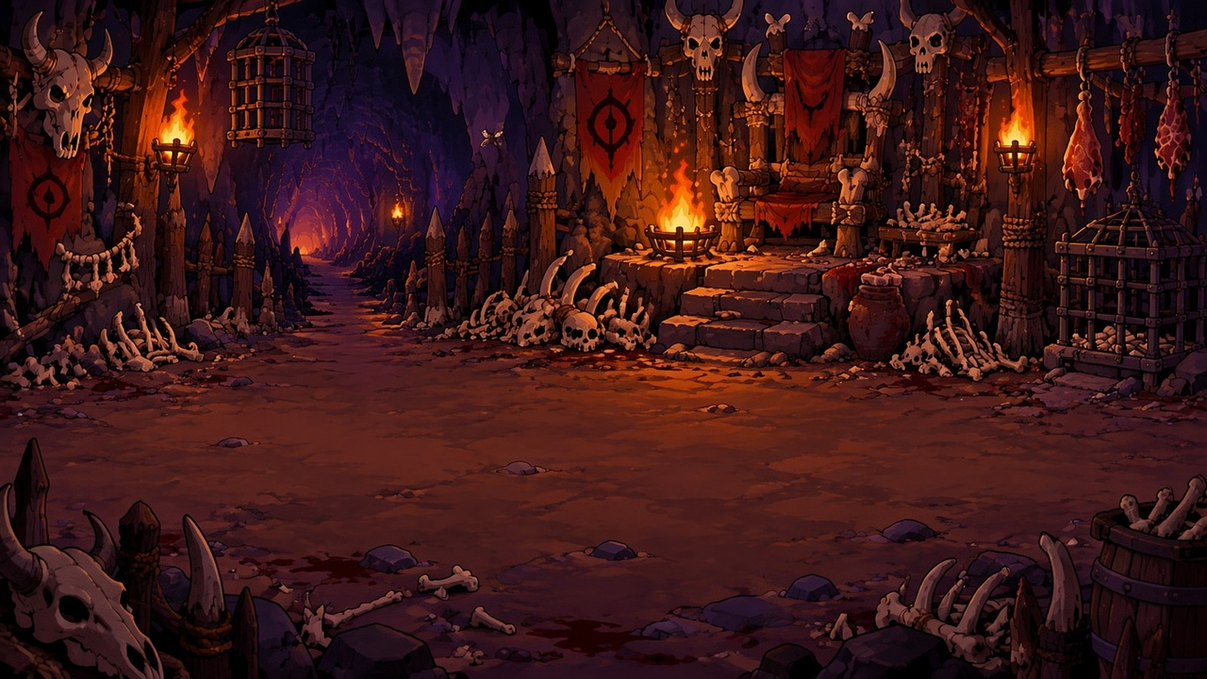
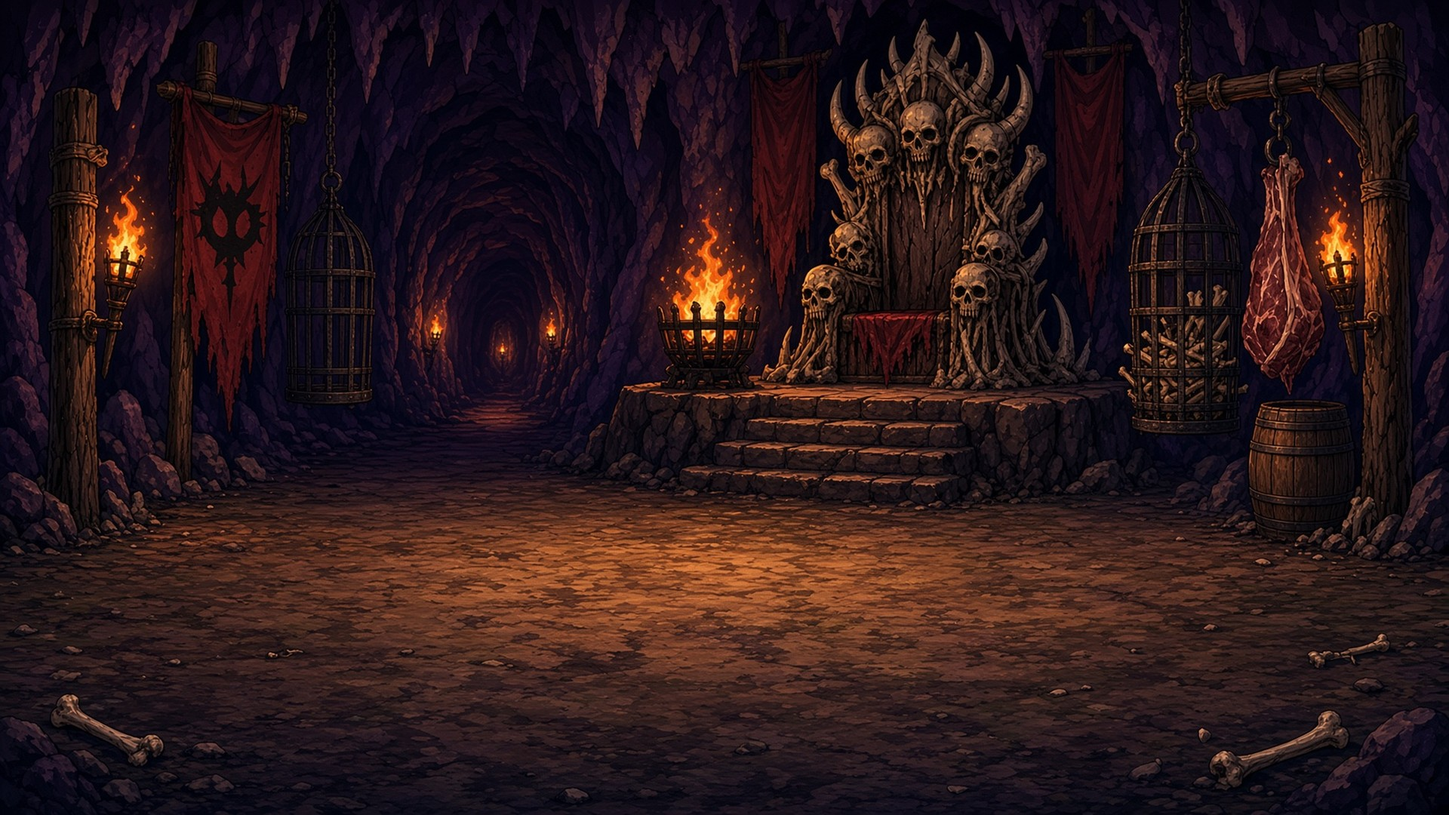
новые логова боссов с живыми эффектами; жуткий лес; фонари у доски; птицы за домами; пёсик/котик поверх героев
Claude-Session: https://claude.ai/code/session_016vnxAXxP6rRycVd2Q33YK3

diff --git a/live6.js b/live6.js
@@ -19,23 +19,48 @@
       flagAtlas: 'town_flags.png', flags: [[74, 121, 168, 424, 0, 0, 424], [536, 128, 152, 417, 168, 0, 424]],
       fire: [1596, 600], fireR: 0.45,
       dog: { img: 'town_dog.png', x: 1330, y: 800, w: 105, px: 0.758, py: 0.849 }, // пёсик: тело + хвост (хвост вращается вокруг px,py)
-      windows: [[864, 493, 60], [1254, 493, 60], [790, 304, 30], [769, 431, 20], [1993, 264, 30], [2343, 186, 40], [1993, 417, 20], [2343, 214, 40]],
+      lanterns: [[870, 497, 26], [1255, 497, 26]], // v8.7: фонари у доски заданий
+      windows: [[790, 304, 30], [769, 431, 20], [1993, 264, 30], [2343, 186, 40], [1993, 417, 20], [2343, 214, 40]],
       birds: true
     },
     forest: {
       sky: 'forest_sky.png', stars: [[684,70,1.16,4.4,1.77],[596,26,0.97,4.56,1.27],[575,43,1.07,1.25,2.02],[552,71,0.98,5.35,1.79],[552,41,1.07,1.93,1.06],[594,21,0.98,5.5,0.65],[602,78,0.51,5.02,1.06],[568,17,1.17,4.69,1.07],[561,76,1.12,3.11,0.76],[615,8,1.01,4.53,0.77],[683,10,1.05,0.05,2.13],[645,77,1.11,4.01,1.69],[650,56,0.67,3.79,1.39],[710,51,0.8,0.49,1.08],[665,11,0.62,3.42,0.9],[662,65,0.85,2.91,0.61],[552,25,0.72,2.42,0.89],[558,36,0.6,2.84,1.69],[677,18,1.02,2.18,1.56],[705,3,0.9,3.38,2.12],[726,33,1.12,4.82,2.15],[693,36,1.0,2.07,1.23],[637,13,0.64,0.09,1.34],[635,37,0.66,1.12,1.62],[556,47,1.16,2.19,1.5],[566,58,0.7,2.74,2.17],[660,54,0.85,1.94,0.73],[598,1,0.86,3.72,0.61],[630,18,1.1,2.64,0.89],[624,60,0.7,4.58,1.89],[643,87,0.85,5.41,0.69],[690,9,1.06,1.02,2.12],[542,71,0.62,0.04,2.0],[663,22,0.61,6.16,1.71],[652,42,0.83,5.54,1.12],[580,12,1.17,1.61,1.87],[625,52,0.66,1.85,1.2],[588,1,0.84,1.83,0.69],[551,59,0.67,4.37,1.01],[680,17,0.65,5.07,0.98]],
-      windows: [[2236, 404, 70]],
+      lanterns: [[2236, 404, 28]],
+      eyes: { c: '255,40,20', core: '200,160', gap: [3, 7], at: [[96, 528, .9], [896, 512, .8], [1616, 548, .8], [2448, 560, .9], [60, 1110, 1.1], [2496, 1130, 1.1], [700, 590, .7]] }, // v8.7: жуткий лес — красные глаза в кустах
+      mist: [560, 700, '150,140,190', 0.10],
       flies: [[20, 1100, 600, 1420], [1950, 1100, 2540, 1420], [300, 650, 900, 760]], leaves: 3, birds: true
     },
     garden: {
       sky: 'garden_sky.png', stars: [[381,12,0.81,0.89,1.46],[121,4,0.63,1.52,0.65],[520,40,1.03,3.22,0.65],[221,51,0.58,1.83,0.71],[429,6,0.83,6.16,1.24],[552,43,0.56,2.09,2.14],[241,17,0.67,0.63,0.7],[268,53,0.95,0.73,1.27],[435,0,0.69,6.1,1.89],[622,2,0.65,2.48,1.97],[528,1,1.04,2.07,1.07],[150,9,0.56,3.66,0.99],[315,39,1.14,5.14,1.0],[212,13,0.53,6.05,0.98],[140,16,0.66,3.51,1.96],[573,27,1.14,1.28,0.63],[123,5,0.62,2.32,1.52],[269,11,0.75,5.6,2.17],[279,9,0.55,3.43,1.78],[164,11,0.95,6.24,2.01],[616,18,0.97,1.27,0.87],[494,41,0.78,1.57,1.61],[410,27,0.77,3.66,1.11],[278,17,0.85,5.26,1.96],[346,14,0.82,1.73,0.94],[278,51,0.82,0.16,1.93],[236,57,0.58,3.36,1.62],[405,25,1.08,1.61,1.74],[458,11,0.79,5.61,1.22],[252,27,0.67,2.45,0.74],[341,8,1.15,2.88,2.07],[532,16,0.99,6.14,0.66],[318,29,0.51,1.78,1.76],[279,29,1.14,3.94,1.16],[398,27,1.04,1.22,0.75],[490,16,1.01,1.63,0.76],[258,25,0.78,4.3,0.63],[217,3,0.53,3.46,1.42],[300,24,0.63,1.28,1.94],[126,17,1.17,2.9,1.82],[338,12,0.86,0.1,2.03],[528,35,1.14,4.68,1.84],[378,9,1.06,1.89,0.76],[485,32,0.81,3.17,1.82],[201,33,0.68,5.69,1.48],[606,3,0.51,1.54,0.67],[499,5,0.87,5.89,1.76],[235,6,0.94,2.86,0.93],[254,46,0.81,4.19,1.33],[280,37,1.01,1.5,0.78],[490,24,1.17,3.15,1.64],[124,1,0.69,2.67,1.6],[209,28,0.88,0.46,0.74],[245,57,1.07,3.92,1.83],[528,49,1.07,2.32,1.65],[292,28,0.75,4.56,1.19],[240,41,1.0,3.58,2.07],[173,3,0.94,0.9,1.79],[225,53,1.15,5.75,0.99],[343,41,0.64,2.67,1.07]],
       fire: [2029, 1193], steam: [2029, 1007], fireR: 0.6,
-      windows: [[1826, 139, 60], [2400, 307, 60]],
+      lanterns: [[1826, 139, 24]], windows: [[2400, 307, 60]],
       flies: [[20, 1150, 500, 1420], [2100, 1150, 2540, 1420]], leaves: true, birds: true,
       cat: { img: 'garden_cat.png', x: 1110, y: 282, w: 85 } // спящий котик на заборе
     },
+    // v8.7: логова боссов — без неба; свои живые эффекты
+    boss: {
+      fires: [[220, 440, 0.9], [2360, 462, 0.9], [1253, 528, 1.3]],
+      lanterns: [[773, 578, 14, '255,150,60'], [885, 613, 10, '255,150,60'], [971, 586, 13, '255,150,60']],
+      eyes: { c: '255,40,20', core: '200,140', gap: [4, 9], at: [[860, 660, .8], [700, 600, .7], [1040, 640, .7]] },
+      motes: { r: [0, 300, 2560, 900], c: '255,150,70', n: 26, up: 22 },
+      mist: [760, 900, '90,40,60', 0.12]
+    },
+    boss_queen: {
+      glows: [[213, 432, 150, '190,80,255', 1.3, .14, .16], [400, 456, 140, '190,80,255', 1.1, .14, .16], [1408, 576, 110, '190,80,255', 1.6, .12, .14], [1824, 616, 120, '190,80,255', 1.4, .12, .14], [2256, 480, 150, '190,80,255', 1.2, .14, .16], [1672, 540, 260, '200,90,255', 0.7, .14, .14], [1040, 432, 240, '170,90,255', 0.5, .10, .10]],
+      lanterns: [[531, 310, 22, '220,140,255'], [2109, 310, 22, '220,140,255']],
+      drips: [[184, 672, 150, '200,110,255'], [392, 616, 150, '200,110,255'], [616, 704, 60, '200,110,255'], [2040, 640, 130, '200,110,255'], [2328, 720, 150, '200,110,255']],
+      motes: { r: [0, 200, 2560, 1300], c: '210,130,255', n: 30, up: 12 },
+      mist: [800, 1000, '120,60,170', 0.10]
+    },
+    boss_treant: {
+      rays: [[1240, -20, 160, 820, 0.12, '255,240,170'], [1360, -20, 120, 760, 0.05, '255,240,170'], [1120, -20, 110, 700, 0.2, '255,240,170']],
+      glows: [[1280, 600, 170, '170,255,150', 0.6, .10, .10]],
+      flies: [[300, 350, 2300, 900], [200, 900, 800, 1300], [1800, 900, 2400, 1300]], leaves: 2, leafC: ['#7a9a2e', '#5d7d22', '#a0a838'],
+      eyes: { c: '230,255,90', core: '255,160', gap: [5, 10], at: [[896, 640, .7], [1696, 672, .7], [1280, 610, .6], [520, 700, .7]] },
+      mist: [720, 860, '170,210,170', 0.10]
+    },
   };
-  const ALL = ['dog', 'cat', 'clouds', 'stars', 'shoot', 'daynight', 'fire', 'sparks', 'steam', 'windows', 'flags', 'ffly', 'leaves', 'birds'];
+  const ALL = ['eyes', 'dog', 'cat', 'clouds', 'stars', 'shoot', 'daynight', 'fire', 'sparks', 'steam', 'windows', 'flags', 'ffly', 'leaves', 'birds'];
   const rnd = (a, b) => a + Math.random() * (b - a);
   const mk = (w, h) => { const c = document.createElement('canvas'); c.width = w; c.height = h; return c; };
   let T = 0;
@@ -64,6 +89,9 @@
     let s = st[loc]; if (s) return s;
     s = st[loc] = { ready: false, clouds: [], sprites: [], stars: [], sparks: [], steam: [], flies: [], leaves: [], birds: [], shoot: null, nextShoot: 4, nextBirds: 8 };
     const sw = W, sh = SKY_H;
+    s.eyes = []; s.nextEyes = rnd(2, 5); s.drops = []; s.motes = []; s.mist = [];
+    if (L.mist) for (let i = 0; i < 7; i++) s.mist.push({ x: rnd(-400, W), y: rnd(L.mist[0], L.mist[1]), r: rnd(260, 480), v: rnd(10, 26) * (Math.random() < .5 ? 1 : -1), a: rnd(.5, 1) });
+    if (!L.sky) { s.ready = true; } else {
     s.sky = mk(sw, sh); s.mask = mk(sw, sh);
     const im = new Image();
     im.onerror = () => console.warn('live6: нет маски неба', base + L.sky);
@@ -72,7 +100,7 @@
       s.stars = (L.stars || []).map(([x, y, r, p, f]) => ({ x: x * 2, y: y * 2, r: r * 1.6, p, f }));
       s.ready = true;
     };
-    im.src = base + L.sky + '?v=2';
+    im.src = base + L.sky + '?v=2'; }
     if (L.dog) { const d = new Image(); d.onload = () => { s.dog = d; }; d.src = base + L.dog.img + '?v=1'; s.dogHappy = 0; s.dogBark = rnd(6, 14); s.dogSay = 0; }
     if (L.cat) { const c = new Image(); c.onload = () => { s.cat = c; }; c.src = base + L.cat.img + '?v=1'; }
     if (L.flagAtlas) { const a = new Image(); a.onload = () => { s.atlas = a; }; a.src = base + L.flagAtlas + '?v=1'; }
@@ -82,7 +110,7 @@
     return s;
   }
 
-  function skyLayer(s, dt, nk) {
+  function skyLayer(s, dt, nk, L) {
     const g = s.sky.getContext('2d'), sw = s.sky.width, sh = s.sky.height;
     g.clearRect(0, 0, sw, sh);
     if (on('daynight')) { g.fillStyle = `rgba(18,10,40,${0.45 * nk})`; g.fillRect(0, 0, sw, sh); }
@@ -92,6 +120,8 @@
       const o = s.shoot; if (o) { o.t += dt; o.x += o.vx * dt; o.y += o.vy * dt; const a = Math.max(0, 1 - o.t / 0.9), gr = g.createLinearGradient(o.x, o.y, o.x - o.vx * .12, o.y - o.vy * .12); gr.addColorStop(0, `rgba(255,250,230,${a})`); gr.addColorStop(1, 'rgba(255,250,230,0)'); g.strokeStyle = gr; g.lineWidth = 2.5; g.beginPath(); g.moveTo(o.x, o.y); g.lineTo(o.x - o.vx * .12, o.y - o.vy * .12); g.stroke(); if (o.t > .9) s.shoot = null; }
     }
     if (on('clouds')) { s.clouds.forEach(c => { c.x += c.v * dt; if (c.x > sw + 10) { c.x = -c.s.width - rnd(0, 400); c.y = rnd(20, 260); c.v = rnd(6, 14); c.s = s.sprites[Math.floor(Math.random() * s.sprites.length)]; } g.globalAlpha = c.a * (1 - 0.25 * nk); g.drawImage(c.s, Math.round(c.x), Math.round(c.y)); }); g.globalAlpha = 1; }
+    if (L.birds && on('birds')) { s.nextBirds -= dt; if (s.nextBirds <= 0 && !s.birds.length) { const n = 3 + Math.floor(Math.random() * 4), y = rnd(60, 200), dir = Math.random() < .5 ? 1 : -1; for (let i = 0; i < n; i++) s.birds.push({ x: dir > 0 ? -60 - i * 31 : W + 60 + i * 31, y: y + (i % 2) * 14 + i * 4, v: dir * rnd(100, 130), p: rnd(0, 6) }); s.nextBirds = rnd(20, 40); }
+      g.save(); g.strokeStyle = 'rgba(25,15,30,.85)'; g.lineWidth = 3; s.birds = s.birds.filter(b => { b.x += b.v * dt; const f = Math.sin(T * 9 + b.p) * 6; g.beginPath(); g.moveTo(b.x - 10, b.y - f); g.quadraticCurveTo(b.x - 4, b.y - 3, b.x, b.y); g.quadraticCurveTo(b.x + 4, b.y - 3, b.x + 10, b.y - f); g.stroke(); return b.x > -120 && b.x < W + 120; }); g.restore(); } // v8.7: птицы — в слое неба, за домами
     g.globalCompositeOperation = 'destination-in'; g.drawImage(s.mask, 0, 0); g.globalCompositeOperation = 'source-over';
   }
 
@@ -102,8 +132,8 @@
     const s = init(loc, base || 'assets/bg/'); if (!s || !s.ready) return;
     const now = performance.now(); if (s.last == null) s.last = now; dt = Math.min(0.1, Math.max(0, (now - s.last) / 1000)); s.last = now; T = now / 1000;
     const nk = nightK();
-    skyLayer(s, dt, nk);
-    ctx.save(); ctx.imageSmoothingEnabled = true; ctx.drawImage(s.sky, 0, 0, W, SKY_H); ctx.restore();
+    if (L.sky) { skyLayer(s, dt, nk, L);
+    ctx.save(); ctx.imageSmoothingEnabled = true; ctx.drawImage(s.sky, 0, 0, W, SKY_H); ctx.restore(); }
     if (on('flags') && L.flags && s.atlas) {
       const sc = Math.abs(ctx.getTransform().a) || 1, step = Math.max(1, 1 / sc), A = s.atlas;
       ctx.save(); ctx.imageSmoothingEnabled = true;
@@ -112,13 +142,32 @@
         for (let y = 0; y < h; y += step) { const k = Math.max(0, (y - 22) / h), dx = Math.sin(T * 1.6 + i * 1.3 - k * 4) * 3 * k * k, sh = Math.min(step + 0.5, h - y); ctx.drawImage(A, ax, fy + y, w, sh, X + dx, Y + y, w, sh); }
       });
       ctx.restore(); }
-    if (on('daynight')) {
+    if (L.sky && on('daynight')) {
       // ночь: дальний план темнеет сильнее, земля внизу (где стоят герои) — слабее, чтобы герои читались
       const col = k => `rgb(${Math.round(255 - 95 * nk * k)},${Math.round(255 - 85 * nk * k)},${Math.round(255 - 30 * nk * k)})`, tg = ctx.createLinearGradient(0, 0, 0, H);
       tg.addColorStop(0, col(1)); tg.addColorStop(0.5, col(0.85)); tg.addColorStop(1, col(0.45));
       ctx.save(); ctx.globalCompositeOperation = 'multiply'; ctx.fillStyle = tg; ctx.fillRect(0, 0, W, H); ctx.restore();
       ctx.save(); ctx.globalAlpha = 0.18 * (1 - nk); ctx.globalCompositeOperation = 'soft-light'; ctx.fillStyle = '#ff9a5a'; ctx.fillRect(0, 0, W, H); ctx.restore();
     }
+    // v8.7: фонари (сверкают), огни/факелы, свечение, капли, искорки, туман, глаза в темноте — для логов и жуткого леса
+    if (L.lanterns && on('windows')) { ctx.save(); ctx.globalCompositeOperation = 'lighter'; L.lanterns.forEach(([x, y, r, c], i) => { const f = 0.78 + 0.12 * Math.sin(T * 7.3 + i * 2) + 0.07 * Math.sin(T * 17.1 + i) + 0.05 * Math.sin(T * 29 + i * 3), R = r * f * (1 + 0.25 * nk), cc = c || '255,190,90';
+      let g = ctx.createRadialGradient(x, y, 0, x, y, R * 2.6); g.addColorStop(0, `rgba(${cc},${0.22 + 0.18 * nk})`); g.addColorStop(1, `rgba(${cc},0)`); ctx.fillStyle = g; ctx.fillRect(x - R * 2.6, y - R * 2.6, R * 5.2, R * 5.2);
+      g = ctx.createRadialGradient(x, y, 0, x, y, R * 0.7); g.addColorStop(0, `rgba(255,245,210,${0.45 * f})`); g.addColorStop(1, `rgba(${cc},0)`); ctx.fillStyle = g; ctx.fillRect(x - R, y - R, R * 2, R * 2); }); ctx.restore(); }
+    if (L.glows && on('fire')) { ctx.save(); ctx.globalCompositeOperation = 'lighter'; L.glows.forEach(([x, y, r, c, sp, a0, a1], i) => { const k = 0.5 + 0.5 * Math.sin(T * (sp || 1) + i * 1.7), a = (a0 == null ? .18 : a0) + (a1 == null ? .14 : a1) * k, g = ctx.createRadialGradient(x, y, 0, x, y, r); g.addColorStop(0, `rgba(${c},${a})`); g.addColorStop(1, `rgba(${c},0)`); ctx.fillStyle = g; ctx.fillRect(x - r, y - r, r * 2, r * 2); }); ctx.restore(); }
+    if (L.rays && on('fire')) { ctx.save(); ctx.globalCompositeOperation = 'lighter'; L.rays.forEach(([x, y, w, len, ang, c], i) => { const a = 0.05 + 0.05 * (0.5 + 0.5 * Math.sin(T * 0.6 + i * 2.3)); ctx.save(); ctx.translate(x, y); ctx.rotate(ang); const g = ctx.createLinearGradient(0, 0, 0, len); g.addColorStop(0, `rgba(${c},${a})`); g.addColorStop(1, `rgba(${c},0)`); ctx.fillStyle = g; ctx.beginPath(); ctx.moveTo(-w * .35, 0); ctx.lineTo(w * .35, 0); ctx.lineTo(w * .7, len); ctx.lineTo(-w * .7, len); ctx.closePath(); ctx.fill(); ctx.restore(); }); ctx.restore(); }
+    if (L.fires && on('fire')) { ctx.save(); ctx.globalCompositeOperation = 'lighter'; L.fires.forEach(([x, y, sc], i) => { const fl = 0.85 + 0.1 * Math.sin(T * 9 + i * 2) + 0.07 * Math.sin(T * 23 + i) + 0.05 * Math.sin(T * 41 + i * 3), R = 300 * sc * fl, g = ctx.createRadialGradient(x, y, 0, x, y, R); g.addColorStop(0, 'rgba(255,150,60,.32)'); g.addColorStop(.35, 'rgba(255,110,40,.10)'); g.addColorStop(1, 'rgba(255,90,30,0)'); ctx.fillStyle = g; ctx.fillRect(x - R, y - R, R * 2, R * 2);
+        const g2 = ctx.createRadialGradient(x, y - 20 * sc, 0, x, y - 20 * sc, 60 * sc * fl); g2.addColorStop(0, 'rgba(255,215,130,.35)'); g2.addColorStop(1, 'rgba(255,160,60,0)'); ctx.fillStyle = g2; ctx.fillRect(x - 70 * sc, y - 90 * sc, 140 * sc, 140 * sc);
+        if (on('sparks') && Math.random() < dt * 7 * sc) s.sparks.push({ x: x + rnd(-20, 20) * sc, y: y - 30 * sc, vx: rnd(-15, 15), vy: rnd(-95, -50), t: 0, l: rnd(.7, 1.6) }); }); ctx.restore(); }
+    if (L.drips && on('steam')) { L.drips.forEach(([x, y, len, c], i) => { if (Math.random() < dt * 0.6) s.drops.push({ x: x + rnd(-6, 6), y, y1: y + len, v: 0, c, t: 0, sp: 0 }); });
+      ctx.save(); s.drops = s.drops.filter(d => { if (!d.sp) { d.v += 900 * dt; d.y += d.v * dt; if (d.y >= d.y1) { d.y = d.y1; d.sp = 0.001; } } else { d.sp += dt; if (d.sp > .5) return false; }
+        const a = d.sp ? 1 - d.sp * 2 : 0.9; ctx.globalAlpha = a; ctx.fillStyle = `rgb(${d.c})`; ctx.shadowColor = `rgb(${d.c})`; ctx.shadowBlur = 8; ctx.beginPath(); if (d.sp) ctx.ellipse(d.x, d.y, 4 + d.sp * 30, 2 + d.sp * 4, 0, 0, 7); else ctx.ellipse(d.x, d.y, 3.5, 6, 0, 0, 7); ctx.fill(); return true; }); ctx.restore(); }
+    if (L.motes && on('ffly')) { const M = L.motes; while (s.motes.length < M.n) s.motes.push({ x: rnd(M.r[0], M.r[2]), y: rnd(M.r[1], M.r[3]), vx: rnd(-8, 8), vy: -rnd(4, M.up || 14), p: rnd(0, 6.3), sz: rnd(1.5, 3.2) });
+      ctx.save(); ctx.globalCompositeOperation = 'lighter'; s.motes.forEach((m, i) => { m.x += (m.vx + Math.sin(T + m.p) * 6) * dt; m.y += m.vy * dt; if (m.y < M.r[1] - 40 || m.x < M.r[0] - 40 || m.x > M.r[2] + 40) { m.x = rnd(M.r[0], M.r[2]); m.y = M.r[3]; }
+        const a = 0.35 + 0.35 * Math.sin(T * 2.2 + m.p); ctx.fillStyle = `rgba(${M.c},${Math.max(0, a)})`; ctx.beginPath(); ctx.arc(m.x, m.y, m.sz, 0, 7); ctx.fill(); }); ctx.restore(); }
+    if (L.mist && on('steam')) { ctx.save(); s.mist.forEach(m => { m.x += m.v * dt; if (m.x > W + 500) m.x = -500; if (m.x < -500) m.x = W + 500; const g = ctx.createRadialGradient(m.x, m.y, 0, m.x, m.y, m.r); g.addColorStop(0, `rgba(${L.mist[2]},${L.mist[3] * m.a})`); g.addColorStop(1, `rgba(${L.mist[2]},0)`); ctx.fillStyle = g; ctx.save(); ctx.translate(m.x, m.y); ctx.scale(1, 0.32); ctx.translate(-m.x, -m.y); ctx.fillRect(m.x - m.r, m.y - m.r, m.r * 2, m.r * 2); ctx.restore(); }); ctx.restore(); }
+    if (L.eyes && on('eyes')) { const E = L.eyes; s.nextEyes -= dt; if (s.nextEyes <= 0 && s.eyes.length < 2) { const sp = E.at[Math.floor(Math.random() * E.at.length)]; if (!s.eyes.some(e => e.x === sp[0])) s.eyes.push({ x: sp[0], y: sp[1], sz: sp[2] || 1, t: 0, l: rnd(2.5, 5), b: rnd(0.8, 1.8) }); s.nextEyes = rnd(E.gap ? E.gap[0] : 3, E.gap ? E.gap[1] : 8); }
+      ctx.save(); ctx.globalCompositeOperation = 'lighter'; s.eyes = s.eyes.filter(e => { e.t += dt; if (e.t > e.l) return false; let a = Math.min(1, e.t / .5, (e.l - e.t) / .5) * (0.55 + 0.45 * nk); const bt = (e.t % 2.3); if (Math.abs(bt - e.b) < 0.08) a *= 0.05; // моргнули
+        const sz = e.sz * 1.7, d = 15 * sz; [-1, 1].forEach(k => { const x = e.x + k * d / 2, g = ctx.createRadialGradient(x, e.y, 0, x, e.y, 16 * sz); g.addColorStop(0, `rgba(${E.c},${0.7 * a})`); g.addColorStop(1, `rgba(${E.c},0)`); ctx.fillStyle = g; ctx.fillRect(x - 16 * sz, e.y - 16 * sz, 32 * sz, 32 * sz); ctx.fillStyle = `rgba(255,${E.core || '235,200'},${a})`; ctx.beginPath(); ctx.ellipse(x, e.y, 3.6 * sz, 2.1 * sz, k * -0.3, 0, 7); ctx.fill(); }); return true; }); ctx.restore(); }
     const F = L.fire;
     if (F && on('fire')) { const fl = 0.85 + 0.1 * Math.sin(T * 9) + 0.07 * Math.sin(T * 23 + 1) + 0.05 * Math.sin(T * 41), R = (430 + 85 * nk) * fl * (L.fireR || 1), fy = F[1] - 28;
       ctx.save(); ctx.globalCompositeOperation = 'lighter';
@@ -129,13 +178,11 @@
     const S2 = L.steam;
     if (S2 && on('steam')) { if (Math.random() < dt * 3) s.steam.push({ x: S2[0] + rnd(-20, 20), y: S2[1], r: rnd(11, 18), t: 0, l: rnd(2.5, 3.8), vx: rnd(-6, 6) });
       ctx.save(); ctx.fillStyle = '#d8cfe6'; s.steam = s.steam.filter(p => { p.t += dt; const k = p.t / p.l; if (k >= 1) return false; p.y -= 31 * dt; p.x += p.vx * dt + Math.sin(T * 1.3 + p.l) * 0.2; ctx.globalAlpha = 0.10 * (1 - k) * Math.min(1, k * 5); ctx.beginPath(); ctx.arc(p.x, p.y, p.r * (1 + k * 1.6), 0, 7); ctx.fill(); return true; }); ctx.restore(); }
-    if (F && on('sparks')) { if (Math.random() < dt * 14 * (L.fireR || 1)) s.sparks.push({ x: F[0] + rnd(-37, 37), y: F[1] - 28, vx: rnd(-17, 17), vy: rnd(-100, -57), t: 0, l: rnd(.8, 1.8) });
+    if ((F || L.fires) && on('sparks')) { if (F && Math.random() < dt * 14 * (L.fireR || 1)) s.sparks.push({ x: F[0] + rnd(-37, 37), y: F[1] - 28, vx: rnd(-17, 17), vy: rnd(-100, -57), t: 0, l: rnd(.8, 1.8) });
       ctx.save(); ctx.globalCompositeOperation = 'lighter'; s.sparks = s.sparks.filter(p => { p.t += dt; p.x += p.vx * dt + Math.sin(T * 3 + p.l * 9) * 0.4; p.y += p.vy * dt; const a = 1 - p.t / p.l; if (a <= 0) return false; ctx.fillStyle = `rgba(255,${160 + Math.round(80 * a)},80,${a})`; ctx.fillRect(Math.round(p.x), Math.round(p.y), 3, 3); return true; }); ctx.restore(); }
     if (L.flies && on('ffly')) { ctx.save(); ctx.globalCompositeOperation = 'lighter'; s.flies.forEach((f, i) => { f.life -= dt; if (f.life <= 0) s.flies[i] = f = newFly(L); f.vx += rnd(-28, 28) * dt; f.vy += rnd(-28, 28) * dt; f.vx *= .98; f.vy *= .98; f.x += f.vx * dt; f.y += f.vy * dt; const b = Math.max(0, Math.sin(T * 2 + f.p)), a = (0.25 + 0.6 * nk) * b; if (a < 0.03) return; const g = ctx.createRadialGradient(f.x, f.y, 0, f.x, f.y, 9); g.addColorStop(0, `rgba(220,255,140,${a})`); g.addColorStop(1, 'rgba(200,255,120,0)'); ctx.fillStyle = g; ctx.fillRect(f.x - 9, f.y - 9, 18, 18); }); ctx.restore(); }
-    if (L.leaves && on('leaves')) { if (Math.random() < dt * 0.35 * (+L.leaves || 1)) s.leaves.push({ x: Math.random() < .5 ? rnd(-30, W * 0.25) : rnd(W * 0.75, W), y: rnd(0, 280), vx: rnd(20, 50), vy: rnd(30, 55), a: rnd(0, 6.28), c: ['#c8742e', '#a8531f', '#d99a3a'][Math.floor(Math.random() * 3)] });
+    if (L.leaves && on('leaves')) { if (Math.random() < dt * 0.35 * (+L.leaves || 1)) s.leaves.push({ x: Math.random() < .5 ? rnd(-30, W * 0.25) : rnd(W * 0.75, W), y: rnd(0, 280), vx: rnd(20, 50), vy: rnd(30, 55), a: rnd(0, 6.28), c: (L.leafC || ['#c8742e', '#a8531f', '#d99a3a'])[Math.floor(Math.random() * 3)] });
       s.leaves = s.leaves.filter(l => { l.a += dt * 2.5; l.x += l.vx * dt + Math.sin(l.a) * 1.1; l.y += l.vy * dt; if (l.y > H) return false; ctx.save(); ctx.translate(l.x, l.y); ctx.rotate(Math.sin(l.a) * 0.9); ctx.fillStyle = l.c; ctx.strokeStyle = '#3a1e10'; ctx.lineWidth = 1.4; ctx.beginPath(); ctx.ellipse(0, 0, 8.5, 4.2, 0, 0, 7); ctx.fill(); ctx.stroke(); ctx.restore(); return true; }); }
-    if (L.birds && on('birds')) { s.nextBirds -= dt; if (s.nextBirds <= 0 && !s.birds.length) { const n = 3 + Math.floor(Math.random() * 4), y = rnd(60, 200), dir = Math.random() < .5 ? 1 : -1; for (let i = 0; i < n; i++) s.birds.push({ x: dir > 0 ? -60 - i * 31 : W + 60 + i * 31, y: y + (i % 2) * 14 + i * 4, v: dir * rnd(100, 130), p: rnd(0, 6) }); s.nextBirds = rnd(20, 40); }
-      ctx.save(); ctx.strokeStyle = 'rgba(25,15,30,.85)'; ctx.lineWidth = 3; s.birds = s.birds.filter(b => { b.x += b.v * dt; const f = Math.sin(T * 9 + b.p) * 6; ctx.beginPath(); ctx.moveTo(b.x - 10, b.y - f); ctx.quadraticCurveTo(b.x - 4, b.y - 3, b.x, b.y); ctx.quadraticCurveTo(b.x + 4, b.y - 3, b.x + 10, b.y - f); ctx.stroke(); return b.x > -120 && b.x < W + 120; }); ctx.restore(); }
   }
   // v8.7: пёсик и котик — отдельным слоем ПОВЕРХ героев (чтобы оружие их не загораживало)
   function drawTop(ctx, loc, base) {
@@ -163,5 +210,5 @@
       const zp = (T * 0.35) % 1; if (!happy) { ctx.save(); ctx.globalAlpha = Math.sin(zp * Math.PI) * 0.8; ctx.fillStyle = '#e8e0ff'; ctx.font = 'bold ' + Math.round(18 + 10 * zp) + 'px sans-serif'; ctx.fillText('z', P.x - w * 0.35 + zp * 26, P.y - h - 6 - zp * 40); ctx.restore(); } }
   }
   const petQ = {};
-  window.LIVE6 = { pet: loc => { petQ[loc || 'town'] = 1; }, dogXY: loc => { const d = (LOC[loc || 'town'] || {}).dog; return d ? { x: d.x, y: d.y } : null; }, draw, drawTop, catXY: loc => { const c = (LOC[loc || 'garden'] || {}).cat; return c ? { x: c.x, y: c.y } : null; }, has: loc => !!LOC[loc] && cfg().enabled !== false, nightK, LOC, ALL };
+  window.LIVE6 = { pet: loc => { petQ[loc || 'town'] = 1; }, dogXY: loc => { const d = (LOC[loc || 'town'] || {}).dog; return d ? { x: d.x, y: d.y } : null; }, draw, drawTop, catXY: loc => { const c = (LOC[loc || 'garden'] || {}).cat; return c ? { x: c.x, y: c.y } : null; }, has: loc => !!LOC[loc] && cfg().enabled !== false, nightK, LOC, ALL, _st: st };
 })();

diff --git a/index.html b/index.html
@@ -1,6 +1,6 @@
 <!doctype html>
 <html lang="ru"><head><meta charset="utf-8"><meta name="viewport" content="width=device-width,initial-scale=1">
-<title>RPG-ферма — пульт зрителя</title><link rel="stylesheet" href="style.css?v=n3"><link rel="stylesheet" href="season.css?v=tr495"><link rel="stylesheet" href="bigscreen.css?v=live20"></head>
+<title>RPG-ферма — пульт зрителя</title><link rel="stylesheet" href="style.css?v=n3"><link rel="stylesheet" href="season.css?v=tr495"><link rel="stylesheet" href="bigscreen.css?v=live21"></head>
 <body>
 <section id="panel" class="panel"><h1>⚔ RPG-ферма: пульт зрителя</h1>
 <div id="auth" class="auth"></div><p id="pmsg" class="pmsg" hidden></p>
@@ -11,5 +11,5 @@
 <header><h1>📜 Команды для чата</h1><input id="q" type="search" placeholder="Поиск команды: поход, грядка, босс…" aria-label="Поиск"><nav id="nav"></nav></header>
 <main id="list"></main></details>
 <footer>Кнопки выполняют действие от вашего Twitch-ника, без сообщений в чат. Результат показывается под кнопками.</footer>
-<script src="config.js"></script><script src="commands.js?v=bs528"></script><script src="actions.js?v=live19"></script><script src="img/h/heroes.js?v=h8b"></script><script src="sprites.js?v=live4"></script><script src="panel.js?v=live18"></script><script src="app.js"></script><script src="season.js?v=tr495"></script><script src="live6.js?v=live20"></script><script src="changelog.js?v=live20"></script><script src="bigscreen.js?v=live20"></script>
+<script src="config.js"></script><script src="commands.js?v=bs528"></script><script src="actions.js?v=live19"></script><script src="img/h/heroes.js?v=h8b"></script><script src="sprites.js?v=live4"></script><script src="panel.js?v=live18"></script><script src="app.js"></script><script src="season.js?v=tr495"></script><script src="live6.js?v=live21"></script><script src="changelog.js?v=live21"></script><script src="bigscreen.js?v=live21"></script>
 </body></html>

diff --git a/bigscreen.js b/bigscreen.js
@@ -364,8 +364,8 @@
   }
 
   function bgOf(l, st) {
-    if (l === 'boss' && st && st.boss && st.boss.lair && /^boss_[a-z0-9_]{1,24}$/.test(st.boss.lair)) return 'img/' + st.boss.lair + '.jpg?v=bs518';
-    return 'img/' + (l || 'camp') + '.jpg?v=' + (l === 'camp' || !l ? 'live1' : l === 'garden' ? 'live2' : l === 'town' ? 'live3' : l === 'forest' ? 'live4' : 'bs518');
+    if (l === 'boss' && st && st.boss && st.boss.lair && /^boss_[a-z0-9_]{1,24}$/.test(st.boss.lair)) return 'img/' + st.boss.lair + '.jpg?v=live6';
+    return 'img/' + (l || 'camp') + '.jpg?v=' + (l === 'camp' || !l ? 'live1' : l === 'garden' ? 'live2' : l === 'town' ? 'live3' : l === 'forest' ? 'live4' : l === 'boss' ? 'live6' : 'bs518');
   }
 
   let lastDefs = [], lastMore = [], sheetKind = '', tipCmds = new Set();
@@ -1695,7 +1695,8 @@
   function liveTick() {
     liveRaf = 0;
     const cv = $('#bsLive'), img = $('#bsBg'), root = $('#bs');
-    const vl = (root && root.dataset.view) || bsLoc, ok = on && cv && img && window.LIVE6 && LIVE6.has(vl) && new RegExp('/' + vl + '\\.jpg').test(img.getAttribute('src') || '') && !document.hidden; // v8.6: только для показанной локации
+    const vw = (root && root.dataset.view) || bsLoc, bm = /\/(boss(?:_[a-z0-9_]+)?)\.jpg/.exec(img ? img.getAttribute('src') || '' : ''), vl = vw === 'boss' && bm ? bm[1] : vw; // v8.7: у логова — свой живой фон
+    const ok = on && cv && img && window.LIVE6 && LIVE6.has(vl) && new RegExp('/' + vl + '\\.jpg').test(img.getAttribute('src') || '') && !document.hidden; // v8.6: только для показанной локации
     const cvT = $('#bsLiveTop');
     if (!ok) { if (cv) cv.hidden = true; if (cvT) cvT.hidden = true; if (root) root.classList.remove('live-on'); return; }
     if (!img.complete || !img.naturalWidth) { cv.hidden = true; if (cvT) cvT.hidden = true; root.classList.remove('live-on'); setTimeout(liveKick, 120); return; } // v8.7: пока грузится новая локация — не держим на экране старый живой фон

diff --git a/changelog.js b/changelog.js
@@ -2,6 +2,12 @@
 // Показывается на пульте (блок над вкладками) и на большом экране (кнопка «🆕 Что нового»). Непрочитанное подсвечивается (localStorage).
 (function () {
   const NEWS = [
+    { id: 'live6', d: '24.11', t: 'Новые логова боссов', l: [
+      'Все три логова перерисованы: тронный зал огра, гнездо Королевы и поляна Короля Трентов.',
+      'Логова живые: у огра трещат факелы и жаровня, летят искры, в туннеле кто-то смотрит красными глазами. У Королевы пульсируют яйца и портал, капает светящаяся слизь, мерцают фонари. У Трентов колышутся лучи света, летают светлячки и листья, из-под корней следят чьи-то глаза.',
+      'Лес стал жутче: из кустов поблёскивают красные глаза, над поляной стелется туман.',
+      'Город: фонари у доски заданий мерцают, птицы летают за домами, а не поверх них.'
+    ] },
     { id: 'live5', d: '24.11', t: 'Котик и пёсик', l: [
       'Котика на заборе огорода тоже можно погладить: нажми или тапни по нему на большом экране — герой подойдёт, котик проснётся и замурчит.',
       'Пёсик и котик теперь видны поверх героев — оружие их больше не загораживает.',

diff --git a/bigscreen.css b/bigscreen.css
@@ -519,6 +519,6 @@ body.bs-on #bs{display:block;position:fixed;top:0;right:0;bottom:0;left:0;width:
 #bs.live-on .scene img.bg{opacity:0} /* v8.6: под живым фоном картинка не просвечивает полоской по краю */
 
 /* v8.6: пёсик — область клика */
-#bs .scene canvas.live.top{z-index:3}
-#bs .dog-hit{position:absolute;width:140px;height:140px;background:transparent;border:0;padding:0;margin:0;cursor:pointer;z-index:4;border-radius:50%;-webkit-tap-highlight-color:transparent;min-height:0;min-width:0;box-shadow:none}
+#bs .scene canvas.live.top{z-index:3000}
+#bs .dog-hit{position:absolute;width:140px;height:140px;background:transparent;border:0;padding:0;margin:0;cursor:pointer;z-index:3001;border-radius:50%;-webkit-tap-highlight-color:transparent;min-height:0;min-width:0;box-shadow:none}
 #bs .dog-hit:hover{background:radial-gradient(circle,rgba(255,230,160,.18),transparent 70%)}
